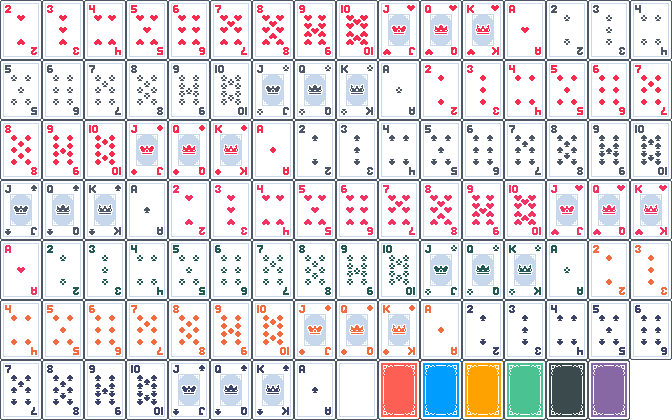
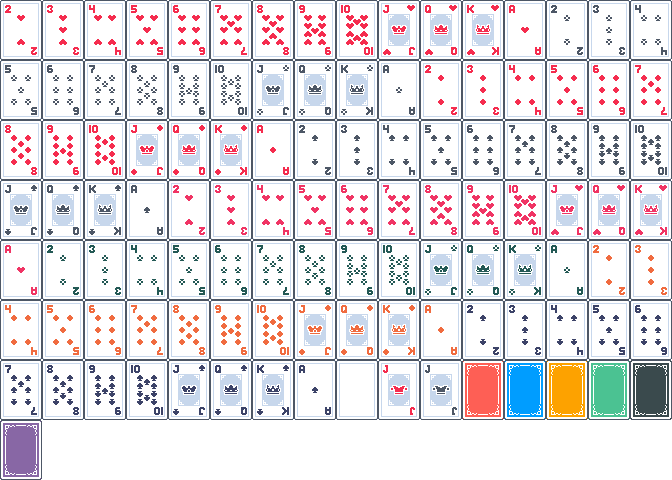
0.23.2: Joker loading card, right-click deselects

diff --git a/packages/client/index.html b/packages/client/index.html
@@ -13,7 +13,9 @@
     <link rel="icon" type="image/png" sizes="64x64" href="favicon.png" />
     <link rel="apple-touch-icon" href="apple-touch-icon.png" />
     <style>
-      /* Shown until the game's first assets load: a card back spinning. main.tsx removes it. */
+      /* Shown until the game's first assets load: a card turning over, red Joker,
+         back, black Joker, back. The back's colour is picked at random below.
+         assets/ui/loading.png is a strip: the two Jokers, then the six backs. */
       #loading {
         position: fixed;
         inset: 0;
@@ -22,27 +24,60 @@
         place-items: center;
         background: #1b2b2a;
         transition: opacity 0.3s;
-        perspective: 400px;
+        perspective: 500px;
       }
       #loading.done {
         opacity: 0;
         pointer-events: none;
       }
-      #loading img {
+      #loading .card {
+        position: relative;
         width: 84px;
         height: 120px;
-        image-rendering: pixelated;
-        filter: drop-shadow(0 6px 0 rgba(0, 0, 0, 0.35));
-        animation: loading-flip 1.2s ease-in-out infinite;
+        transform-style: preserve-3d;
+        animation: loading-turn 1.2s linear infinite;
       }
-      @keyframes loading-flip {
+      #loading .card > span {
+        position: absolute;
+        inset: 0;
+        backface-visibility: hidden;
+        filter: drop-shadow(0 6px 0 rgba(0, 0, 0, 0.35));
+        background: url(assets/ui/loading.png) 0 0 / 672px 120px no-repeat;
+        image-rendering: pixelated;
+      }
+      /* The front swaps Jokers while it faces away: one full turn each. */
+      #loading .card > .front {
+        animation: loading-joker 2.4s step-end infinite;
+      }
+      #loading .card > .back {
+        transform: rotateY(180deg);
+        background-position-x: var(--back, -168px);
+      }
+      @keyframes loading-turn {
+        from {
+          transform: rotateY(0deg);
+        }
         to {
           transform: rotateY(360deg);
         }
       }
+      @keyframes loading-joker {
+        0% {
+          background-position-x: 0;
+        }
+        25% {
+          background-position-x: -84px;
+        }
+        75% {
+          background-position-x: 0;
+        }
+      }
       @media (prefers-reduced-motion: reduce) {
-        #loading img {
+        #loading .card {
           animation: loading-pulse 1.2s ease-in-out infinite alternate;
+        }
+        #loading .card > .front {
+          animation: none;
         }
       }
       @keyframes loading-pulse {
@@ -53,7 +88,11 @@
     </style>
   </head>
   <body>
-    <div id="loading" role="status" aria-label="Loading"><img src="assets/ui/loading.png" alt="" /></div>
+    <div id="loading" role="status" aria-label="Loading"><div class="card"><span class="front"></span><span class="back"></span></div></div>
+    <script>
+      // A new back colour on every load (one of the six in the strip, after the two Jokers).
+      document.getElementById('loading').style.setProperty('--back', -(2 + Math.floor(Math.random() * 6)) * 84 + 'px');
+    </script>
     <canvas id="bg" aria-hidden="true"></canvas>
     <div id="stage" aria-hidden="true"></div>
     <div id="app"></div>

diff --git a/packages/client/src/ui/App.tsx b/packages/client/src/ui/App.tsx
@@ -1,4 +1,5 @@
 import { useEffect, useState } from 'preact/hooks';
+import { play } from '../audio';
 import { getHandOrder, setAnnouncer, tapDrawn, tapHand } from '../controller';
 import { getSettings, updateSettings, useSettings } from '../settings';
 import { t } from '../i18n';
@@ -43,8 +44,23 @@ export function App() {
         else if (i === order.length && g.drawn !== null) tapDrawn(g.drawn);
       }
     };
+    // Right-click never opens the browser's menu (text fields keep it, for pasting).
+    // In a game, with no window open and no card held, it lets go of the selected cards.
+    const onMenu = (e: MouseEvent) => {
+      const el = e.target as HTMLElement;
+      if (el.closest?.('input, textarea')) return;
+      e.preventDefault();
+      const s = store.get();
+      if (!s.room?.game || s.overlay || s.dragging || !s.selected.length || document.querySelector('.modal-backdrop')) return;
+      store.set({ selected: [] });
+      play('cancel', { volume: 0.5 });
+    };
     addEventListener('keydown', onKey);
-    return () => removeEventListener('keydown', onKey);
+    addEventListener('contextmenu', onMenu);
+    return () => {
+      removeEventListener('keydown', onKey);
+      removeEventListener('contextmenu', onMenu);
+    };
   }, []);
 
   return (

diff --git a/packages/client/src/changelog.ts b/packages/client/src/changelog.ts
@@ -19,6 +19,14 @@ const r = (en: string, pt: string) => ({ kind: 'removed' as const, en, pt });
 
 export const CHANGELOG: Release[] = [
   {
+    version: '0.23.2',
+    date: '2026-10-25',
+    items: [
+      c('The loading card turns over: red Joker, back, black Joker, back. The back is a new colour each time.', 'A carta do carregamento vira-se: Joker vermelho, costas, Joker preto, costas. As costas mudam de cor de cada vez.'),
+      c('Right-click no longer opens the browser menu. In a game it lets go of the selected cards.', 'O clique direito já não abre o menu do navegador. Num jogo, larga as cartas selecionadas.'),
+    ],
+  },
+  {
     version: '0.23.1',
     date: '2026-10-25',
     items: [

diff --git a/packages/client/src/game/table.ts b/packages/client/src/game/table.ts
@@ -396,7 +396,8 @@ export class Table {
   }
 
   private onPointerDown(e: PointerEvent): void {
-    if (!this.canvasOnTop(e)) return;
+    // Only the main button picks cards up; right-click lets go of the selection (App.tsx).
+    if (e.button !== 0 || !this.canvasOnTop(e)) return;
     const p = this.toVirtual(e);
     this.pointer = p;
     const d = this.hit(p, (x) => this.isInteractive(x));

diff --git a/CHANGELOG.md b/CHANGELOG.md
@@ -5,6 +5,10 @@ Versions follow semantic versioning; up to 0.11.0 they were assigned afterwards 
 
 ✨ new · 🔧 changed · 🐛 fixed · 🗑 removed
 
+## 0.23.2 (2026-10-25)
+- 🔧 The loading card turns over: red Joker, back, black Joker, back. The back is a new colour each time.
+- 🔧 Right-click no longer opens the browser menu. In a game it lets go of the selected cards.
+
 ## 0.23.1 (2026-10-25)
 - 🐛 The table showed no cards (hand, piles, other players) since 0.23.0.
 - 🔧 The Cards tab in Settings is now called Graphics.
